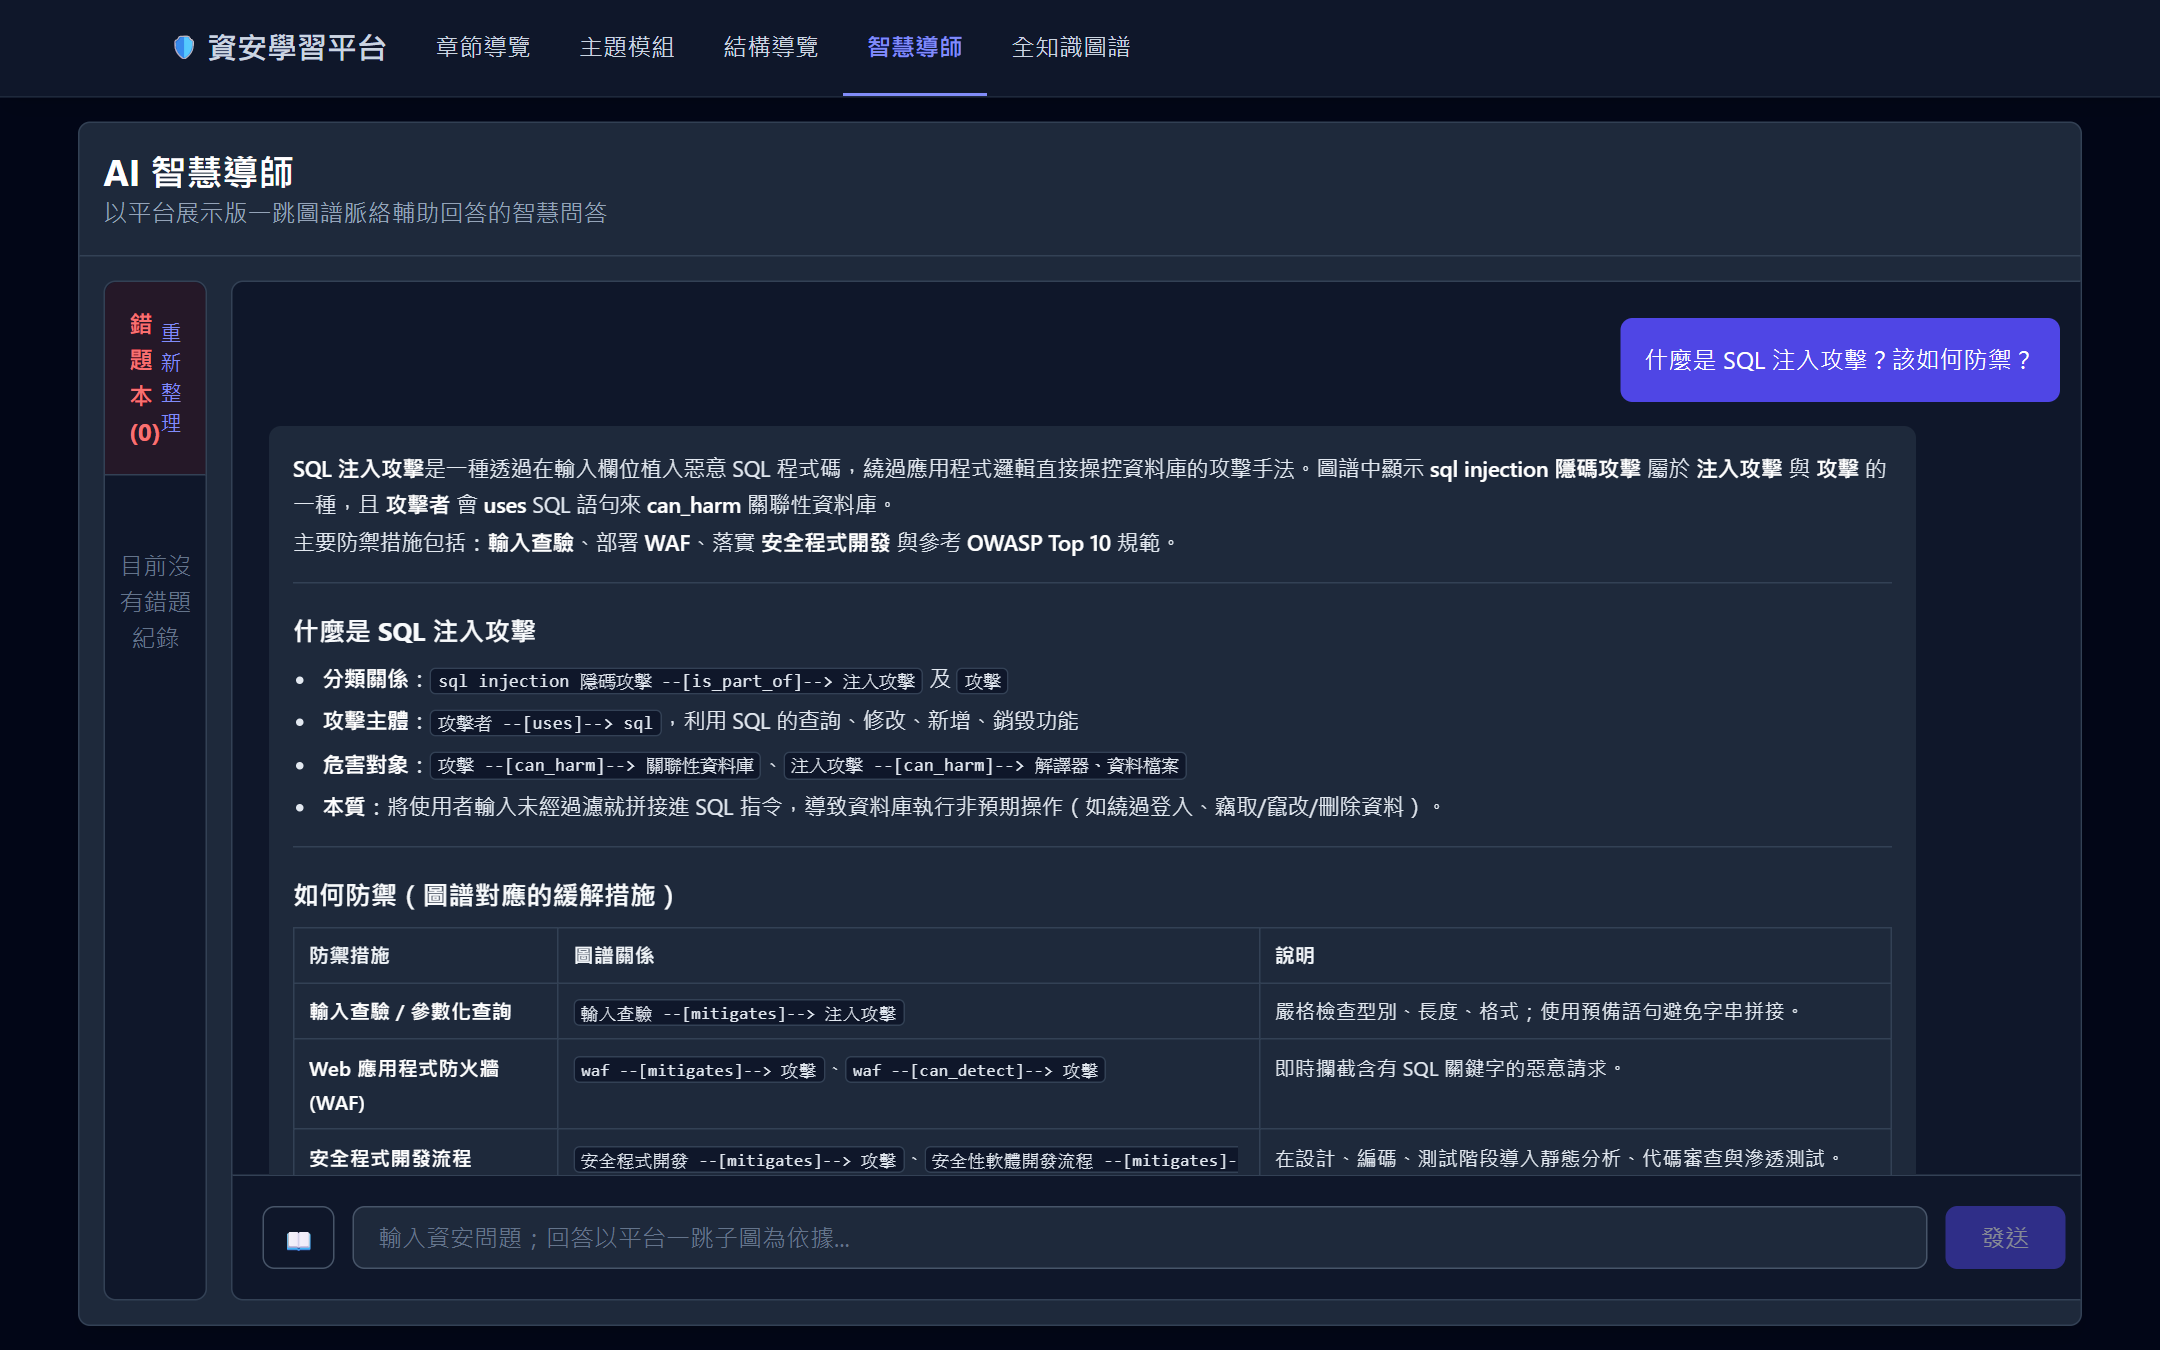
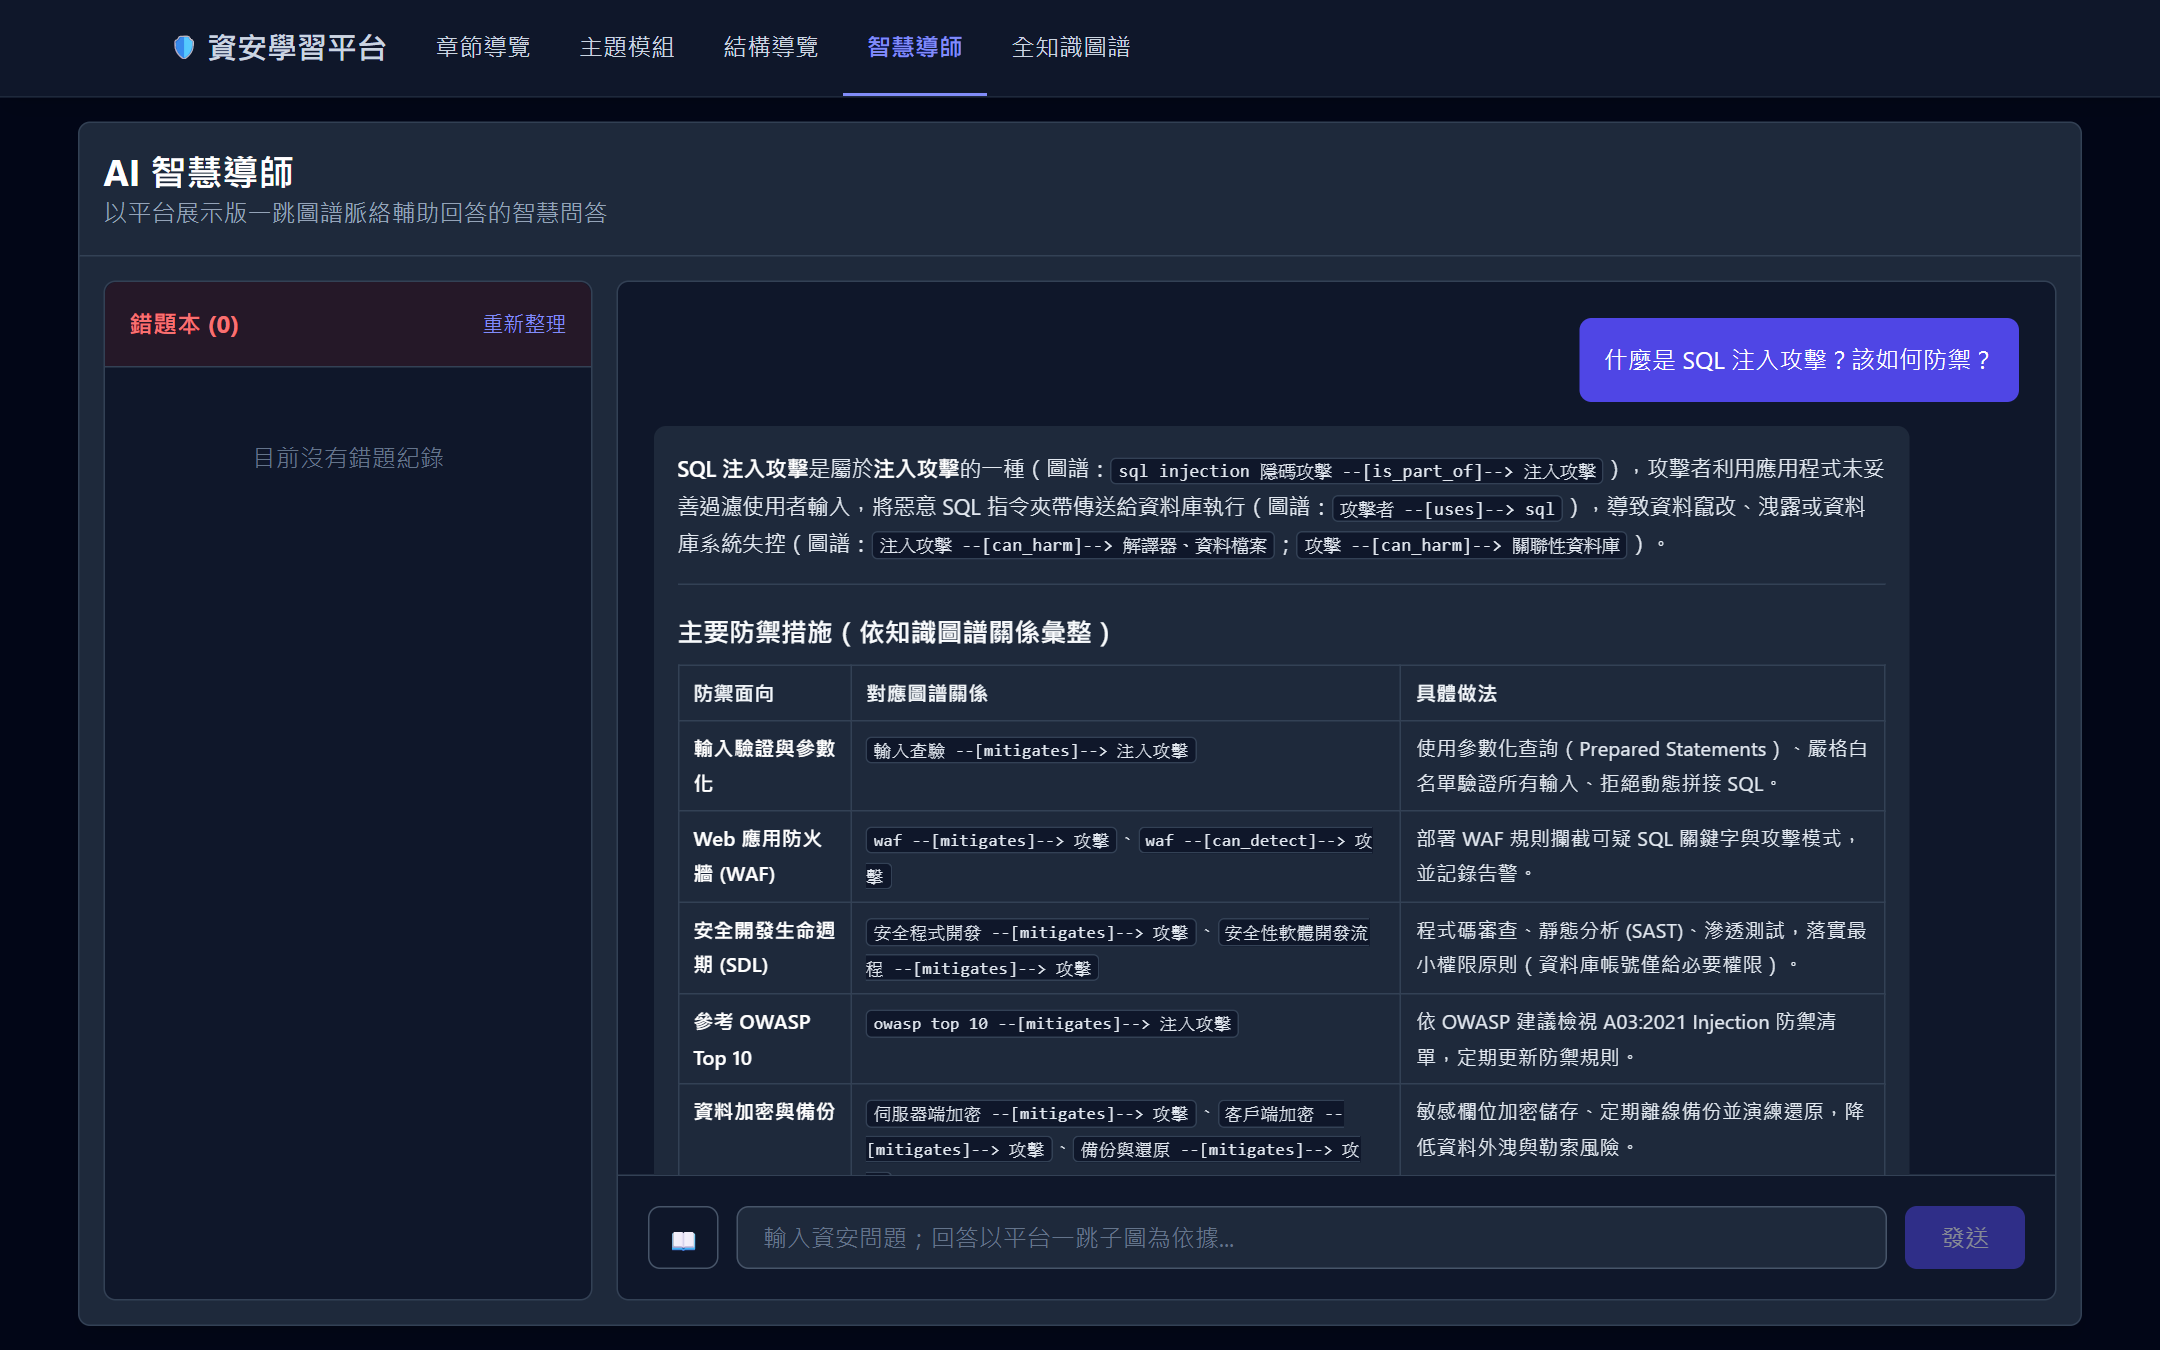
docs: 外掛版本改為實際驗證的 5.26.28／2.13.11，補分層檢視截圖
- README「準備 Neo4j」原列 apoc-2026.03.1／GDS 2026.03.0（舊校內主機的安裝），
  與 REPRODUCE.md 實測矩陣不符；改列 apoc-5.26.28-core.jar 與
  neo4j-graph-data-science-2.13.11.jar，並指向 REPRODUCE.md。移除舊的外掛截圖。
- REPRODUCE.md：GDS 用途補上「從快照還原後重算結構導覽屬性（step2_3）」。
- 新增結構導覽分層檢視截圖，更新智慧導師截圖。

diff --git a/README.md b/README.md
@@ -47,6 +47,10 @@
 
 ![結構導覽](./docs/images/screenshots/04-structure.png)
 
+切換到「分層」檢視時，分群內節點依分析層級由上而下分區排列。
+
+![結構導覽分層檢視](./docs/images/screenshots/04b-structure-layers.png)
+
 ### 智慧導師
 
 以問題中的實體為種子，擷取 Neo4j 一跳子圖作為 LLM 回答脈絡，回答中標示所依據的圖譜關係。
@@ -121,16 +125,17 @@ flowchart LR
 
 ### 1. 準備 Neo4j
 
-![Neo4j plugins 資料夾需包含 APOC 與 Graph Data Science](./docs/images/neo4j-plugins.png)
-
 > **必要外掛提醒**
 >
-> 本專案的知識圖譜還原、Graph RAG 與 Leiden 分群偵測流程會依賴 Neo4j 外掛。
-> 啟動 Neo4j 前，請確認 Neo4j 的 `plugins/` 資料夾已包含下列模組：
+> 本專案以 **Neo4j 5.26.28 Community** 驗證。啟動 Neo4j 前，請確認 `plugins/` 資料夾已包含下列模組：
 >
-> - `apoc-2026.03.1-core.jar`
-> - `neo4j-graph-data-science-2026.03.0.jar`
+> ```text
+> plugins/
+> ├── apoc-5.26.28-core.jar                     # 平台查詢必要（apoc.meta.cypher.type）
+> └── neo4j-graph-data-science-2.13.11.jar      # Leiden 分群與結構導覽屬性計算
+> ```
 >
+> APOC 須與 Neo4j 同版；GDS 須依 Neo4j patch 版對照，**不能直接裝最新版**（詳見 `REPRODUCE.md` 的版本矩陣與下載連結）。
 > 若缺少上述外掛，部分 Cypher 查詢、圖演算法與分群偵測相關功能可能無法正常執行。
 
 請先啟動 Neo4j，並確認 Bolt 連線可用。預設連線資訊如下：

diff --git a/REPRODUCE.md b/REPRODUCE.md
@@ -16,7 +16,7 @@
 | Java | **17 或 21** | Neo4j 5.26 LTS 的支援範圍 |
 | Neo4j | **5.26.28** Community | 見下方外掛版本對應 |
 | APOC | **與 Neo4j 同版**（5.26.28） | 平台 Cypher 使用 `apoc.meta.cypher.type`，**必要** |
-| GDS | **2.13.11** | 僅實驗二需要 |
+| GDS | **2.13.11** | 實驗二，以及從快照還原後重算結構導覽屬性（step2_3） |
 
 > ### ⚠ GDS 版本必須逐個 patch 版對照，不能拿最新版
 > GDS 依 Neo4j patch 版發行。實測把 GDS **2.27.0**（2.x 系列最新）裝在 Neo4j 5.26.28 上，
